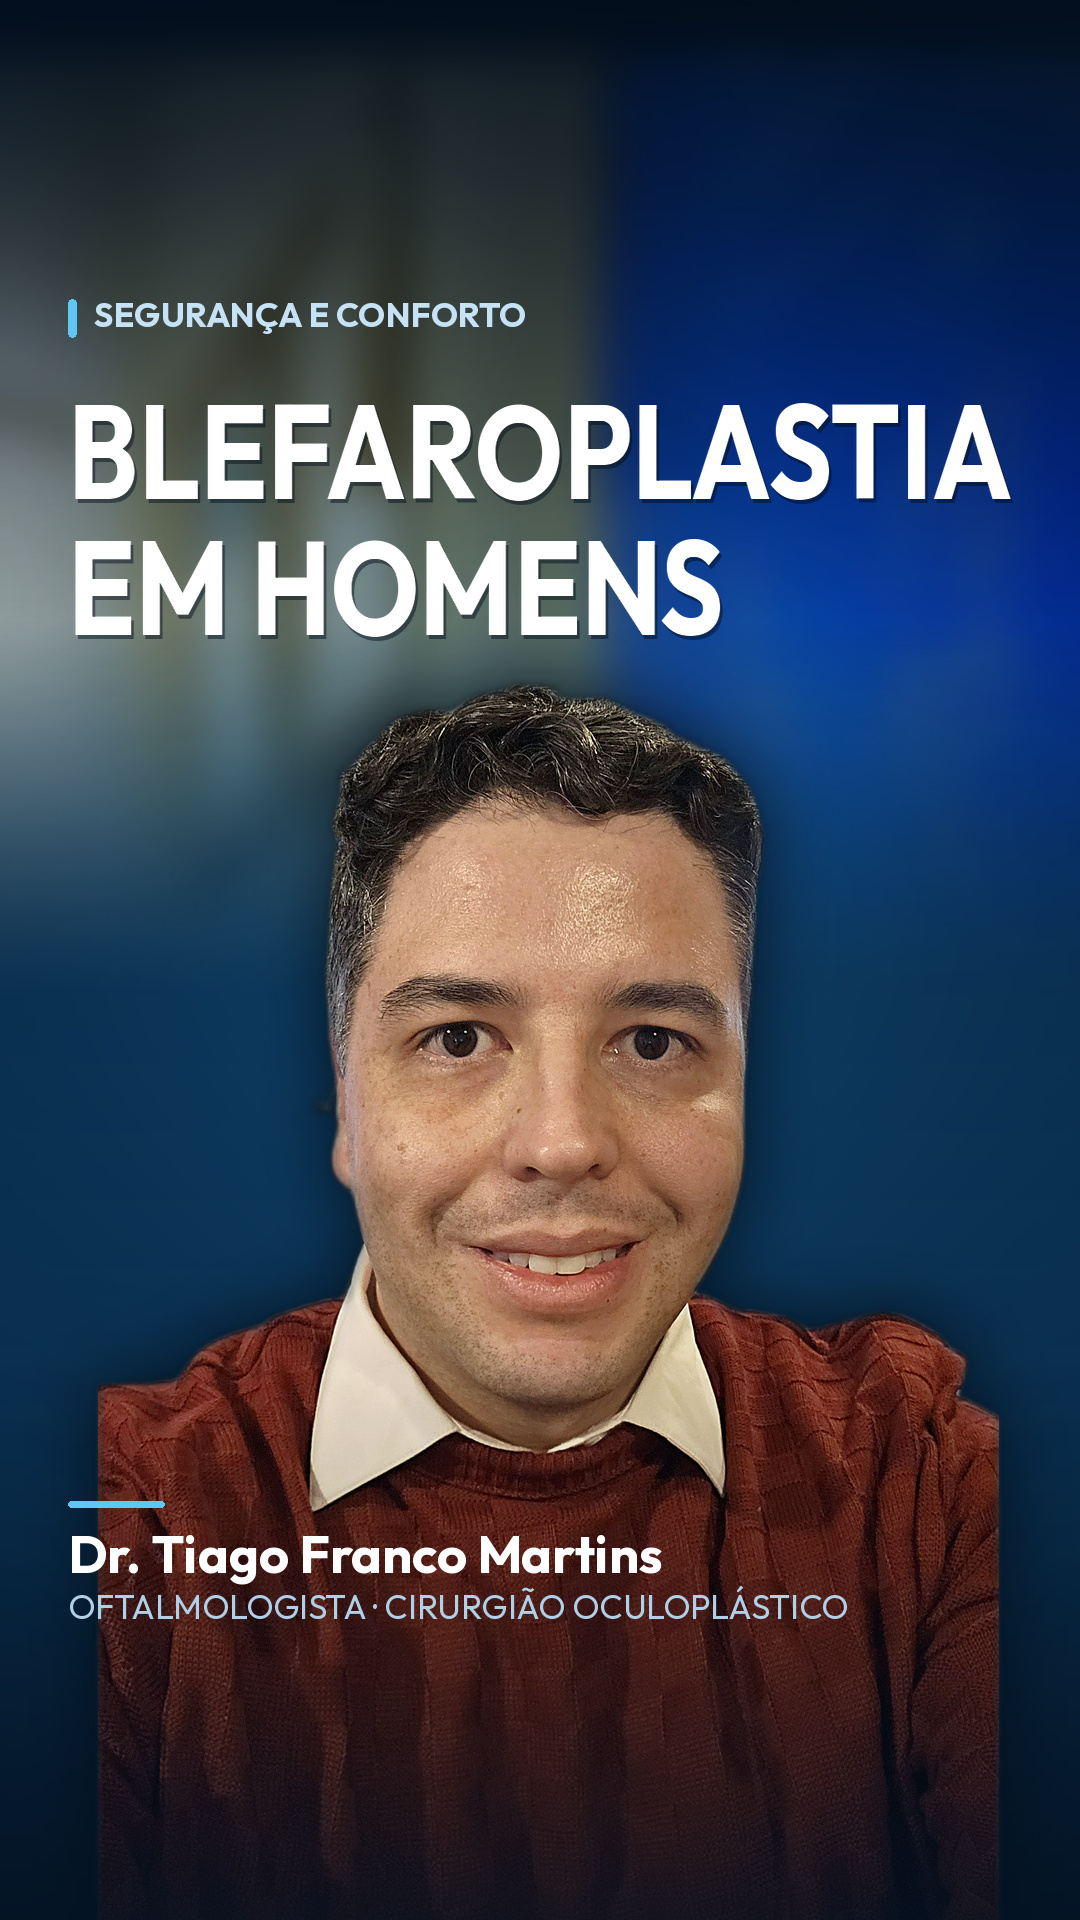
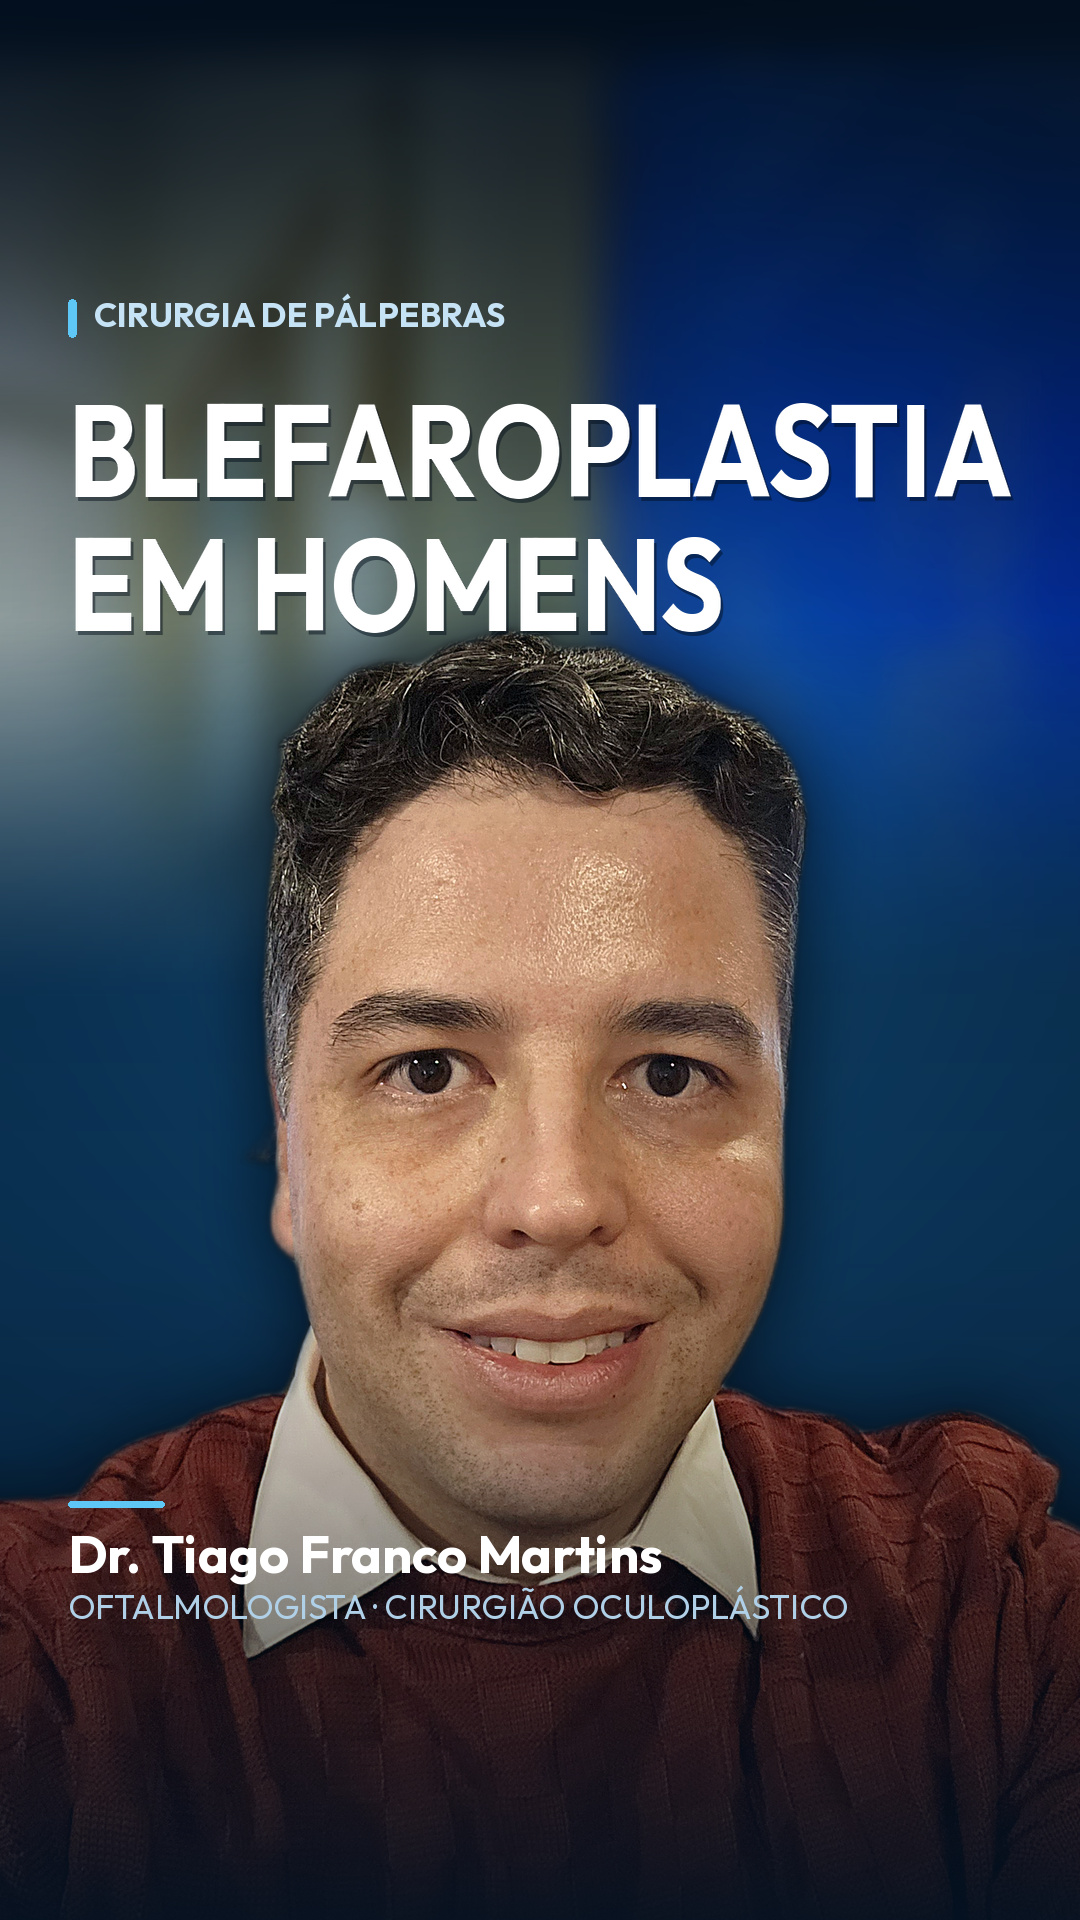
Volta o chapéu para "Cirurgia de pálpebras" e tira o corte nas laterais
Na selfie de origem os ombros já encostam nas bordas da foto, então o corpo
vinha cortado por uma linha reta nas laterais da capa. A figura passa a ser
montada com 1120 px de largura (mais que os 1080 da capa): ela sangra para
fora do quadro e o corte cai fora da área visível — verificado, o corpo cobre
as duas bordas de y=1533 até a base.

- Chapéu volta a ser "CIRURGIA DE PÁLPEBRAS".
- Degradê da base reforçado, para a assinatura manter contraste sobre o
  colarinho claro agora que a figura está maior.
- README explica por que a largura precisa passar de 1080.

Claude-Session: https://claude.ai/code/session_0115TnNkJGEpj9DyYC6oW8QN

diff --git a/capas/gerar_capa.py b/capas/gerar_capa.py
@@ -32,7 +32,10 @@ AZUL_TOPO, AZUL_BASE = (5, 24, 46), (12, 62, 102)
 DESTAQUE = (94, 199, 245)
 
 # Posicao da figura: largura final em px e altura do topo da cabeca.
-PESSOA_LARGURA, PESSOA_CENTRO_X, TOPO_CABECA = 901, 548, 668
+# A largura passa de 1080 de proposito: dos ombros para baixo o corpo ja toca as
+# bordas da foto original, entao ele precisa sangrar para fora do quadro — assim
+# o corte fica fora da capa em vez de aparecer como uma linha reta nas laterais.
+PESSOA_LARGURA, PESSOA_CENTRO_X, TOPO_CABECA = 1120, 540, 610
 
 
 def fonte(caminho, tamanho):
@@ -135,8 +138,8 @@ def escurecer_extremos(img):
     base = Image.new("L", (1, H), 0)
     bp = base.load()
     for y in range(H):
-        t = max(0.0, (y - 1330) / (H - 1330))
-        bp[0, y] = round(200 * t ** 1.5)
+        t = max(0.0, (y - 1240) / (H - 1240))
+        bp[0, y] = round(238 * t ** 1.25)
     img = Image.composite(Image.new("RGBA", (W, H), (4, 18, 34, 255)), img,
                           base.resize((W, H), Image.BICUBIC))
 
@@ -209,7 +212,7 @@ if __name__ == "__main__":
     p.add_argument("--fundo", default="estudio", choices=["estudio", "consultorio"])
     p.add_argument("--titulo", default="BLEFAROPLASTIA\nEM HOMENS",
                    help="use \\n para quebrar linha")
-    p.add_argument("--chapeu", default="SEGURANÇA E CONFORTO")
+    p.add_argument("--chapeu", default="CIRURGIA DE PÁLPEBRAS")
     p.add_argument("--nome", default="Dr. Tiago Franco Martins")
     p.add_argument("--cargo", default="Oftalmologista · Cirurgião oculoplástico")
     p.add_argument("--saida", default="capa.jpg")

diff --git a/capas/README.md b/capas/README.md
@@ -54,3 +54,10 @@ fontes/                        Outfit (SIL Open Font License, ver Outfit-OFL.txt
 Para uma foto nova, basta substituir `assets/dr-tiago-recorte.png` por outro
 PNG com fundo transparente e ajustar `TOPO_CABECA` / `PESSOA_LARGURA` no
 topo do `gerar_capa.py`.
+
+**Atenção ao `PESSOA_LARGURA`:** na selfie atual os ombros já tocam as bordas
+da própria foto, ou seja, o corpo vem cortado da origem. Por isso a figura é
+montada com largura maior que os 1080 px da capa — ela sangra para fora do
+quadro e o corte fica de fora. Se a largura cair abaixo de ~1100 px, reaparece
+uma linha reta cortando o corpo nas laterais. Uma foto tirada de mais longe,
+com espaço sobrando dos dois lados do corpo, permite enquadrar mais aberto.
